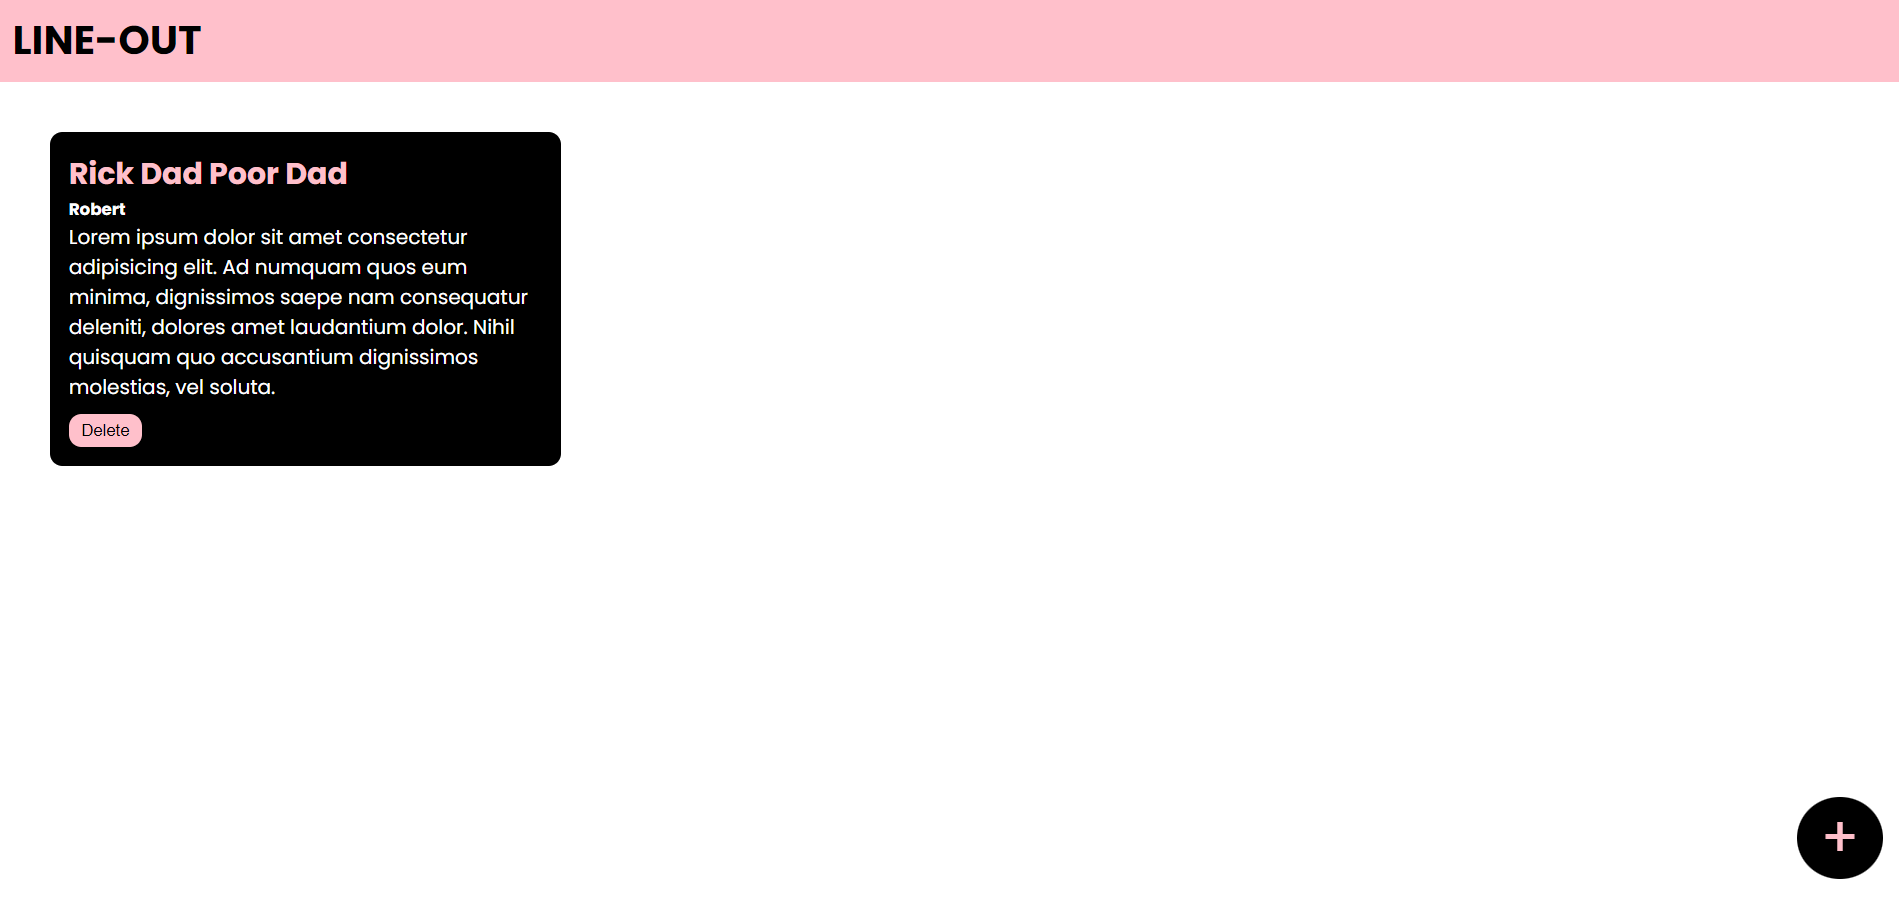
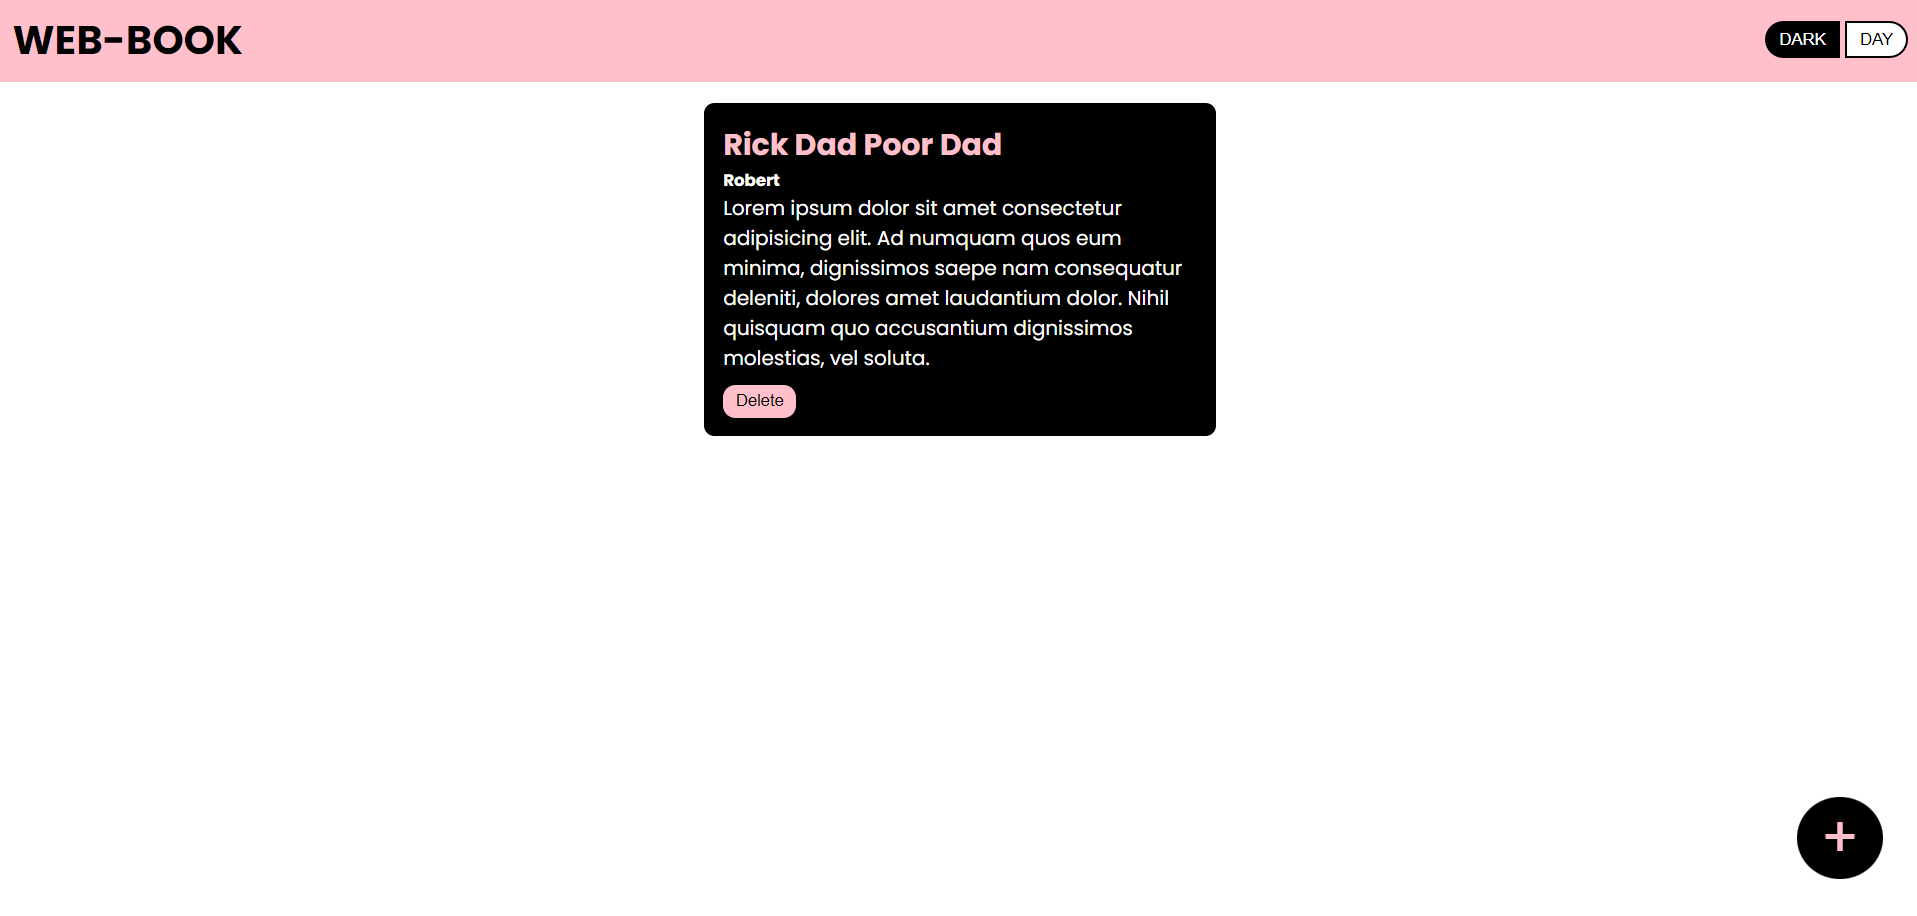
UPDATED WEB-BOOK

diff --git a/HTML/BOOK-STORE/bookstyle.css b/HTML/BOOK-STORE/bookstyle.css
@@ -17,41 +17,49 @@ body {
     padding: 10px;
     text-align: center;
     align-items: center;
-    color:black;
+    color: black;
 }
-.nightmode,.daymode{
-    background:black;
+
+.nightmode,
+.daymode {
+    background: black;
     color: white;
     padding: 5px 10px;
-    border:black 2px solid;
-    margin:0;
+    border: black 2px solid;
+    margin: 0;
 }
-.daymode{
-    background:white;
+
+.daymode {
+    background: white;
     color: black;
-    border-radius:0px 20px 20px 0px;
+    border-radius: 0px 20px 20px 0px;
 }
-.nightmode{
-    background:black;
+
+.nightmode {
+    background: black;
     color: white;
-    border-radius:20px 0 0 20px;
+    border-radius: 20px 0 0 20px;
 }
+
 .container {
+    display: flex;
+    flex-direction: column;
+    align-items: center;
     padding: 10px;
 }
 
 .book-container {
-    display:inline-block;
+    display: inline-block;
     text-align: left;
     padding: 15px;
-    width: 25%;
+    width: 90%;
     background: black;
     border-radius: 10px;
     color: white;
-    margin: 30px;
-    vertical-align:top;
-    border:2px rgb(255, 255, 255) solid;
+    vertical-align: top;
+    border: 2px rgb(255, 255, 255) solid;
 }
+
 .book-container h2 {
     color: pink;
 }
@@ -71,66 +79,119 @@ body {
     padding: 5px 20px;
     border-radius: 100%;
     font-size: 300%;
-    border:none;
-    position:fixed;
-    bottom:30px;
-    right:30px;
+    border: none;
+    position: fixed;
+    bottom: 30px;
+    right: 30px;
 }
 
 .pop-overlay {
     background: rgba(0, 0, 0, 0.877);
     position: absolute;
     width: 100%;
-    height:100%;
-    top:0;
-    left:0;
-    z-index:1;
-    display:none;
+    height: 100%;
+    top: 0;
+    left: 0;
+    z-index: 1;
+    display: none;
 }
-.popupbox{
-    background:pink;
-    width:40%;
-    padding:40px;
-    position:absolute;
-    border-radius:10px;
-    top:20%;
-    left:20%;
-    z-index:2;
-    display:none;
+
+.popupbox {
+    background: pink;
+    width: 40%;
+    padding: 40px;
+    position: absolute;
+    border-radius: 10px;
+    top: 20%;
+    left: 20%;
+    z-index: 2;
+    display: none;
 }
-.popupbox input{
-    background:transparent;
-    border:none;
-    width:100%;
-    padding:5px;
+
+.popupbox input {
+    background: transparent;
+    border: none;
+    width: 100%;
+    padding: 5px;
     margin: 5px;
-    border-bottom:2px black solid;
+    border-bottom: 2px black solid;
 }
-.popupbox textarea{
-    background:transparent;
-    border:none;
-    width:100%;
-    padding:5px;
+
+.popupbox textarea {
+    background: transparent;
+    border: none;
+    width: 100%;
+    padding: 5px;
     margin: 5px;
-    border:2px black solid;
+    border: 2px black solid;
 }
-.popupbox input::placeholder{
-    color:black;
+
+.popupbox input::placeholder {
+    color: black;
 }
-.popupbox textarea::placeholder{
-    color:black;   
+
+.popupbox textarea::placeholder {
+    color: black;
 }
-.popupbox input:focus{
+
+.popupbox input:focus {
     outline: none;
 }
-.popupbox textarea:focus{
+
+.popupbox textarea:focus {
     outline: none;
 }
-.popupbox button{
+
+.popupbox button {
     background: black;
     color: pink;
     border-radius: 10px;
     padding: 5px 10px;
     border: none;
     margin-top: 10px;
+}
+
+@media (min-width:769px) {
+    .container {
+        display: flex;
+        flex-direction: row;
+        flex-wrap: wrap;
+        justify-content:space-around;
+        padding: 10px;
+    }
+
+    .book-container {
+        display: inline-block;
+        text-align: left;
+        padding: 15px;
+        width: 30%;
+        margin:5px;
+        background: black;
+        border-radius: 10px;
+        color: white;
+        vertical-align: top;
+        border: 2px rgb(255, 255, 255) solid;
+    }
+}
+@media (min-width:1024px) {
+    .container {
+        display: flex;
+        flex-direction: row;
+        flex-wrap: wrap;
+        justify-content:space-around;
+        padding: 10px;
+    }
+
+    .book-container {
+        display: inline-block;
+        text-align: left;
+        padding: 15px;
+        width: 25%;
+        margin:5px;
+        background: black;
+        border-radius: 10px;
+        color: white;
+        vertical-align: top;
+        border: 2px rgb(255, 255, 255) solid;
+    }
 }

diff --git a/HTML/BOOK-STORE/index.html b/HTML/BOOK-STORE/index.html
@@ -15,7 +15,7 @@
 
 <body>
     <div class="navbar">
-        <h1>LINE-OUT</h1>
+        <h1>WEB-BOOK</h1>
         <div class="mode">
         <button class="nightmode">DARK</button>
         <button class="daymode">DAY</button></div>
@@ -32,12 +32,12 @@
                 vel soluta.</p>
             <button onclick="book(event)">Delete</button>
         </div>
-    </div>
-    <button class="add-button" id="add-popup-btn">
-        +
-    </button>
-    <div class="pop-overlay">
-    </div>
+        </div>
+        <button class="add-button" id="add-popup-btn">
+            +
+        </button>
+        <div class="pop-overlay">
+        </div>
     <div class="popupbox">
         <h2>ADD BOOK</h2>
         <form action="#">

diff --git a/index.html b/index.html
@@ -82,7 +82,7 @@
         </div>
       </div>
       <div class="carousel-item" data-bs-interval="2000">
-        <a href="./HTML/BOOK-STORE/index.html" target="_blank"><img src="./CSS/web-book.png"
+        <a href="./HTML/BOOK-STORE/index.html" target="_blank"><img src="./CSS//Web-Book.png"
           class="d-block w-100" alt="..."></a>
         <div class="carousel-caption d-none d-md-block">
           <h6>BOOK STORE</h6>
